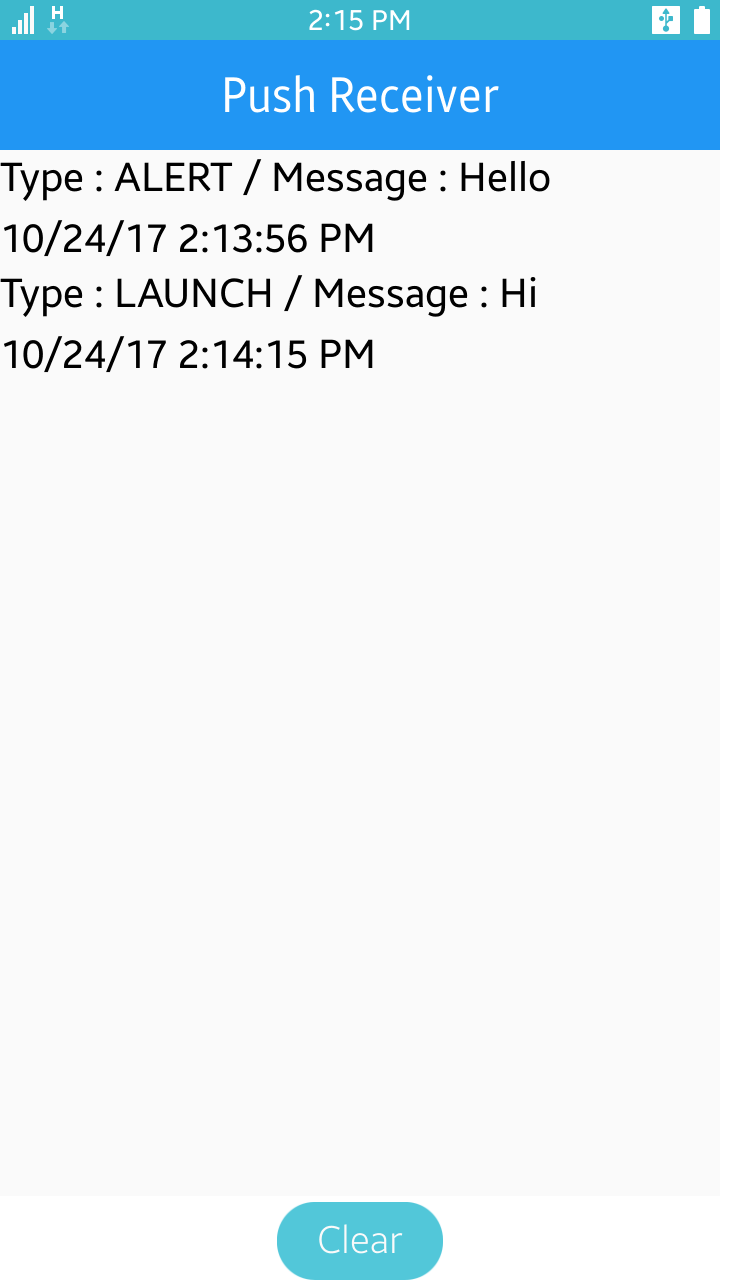
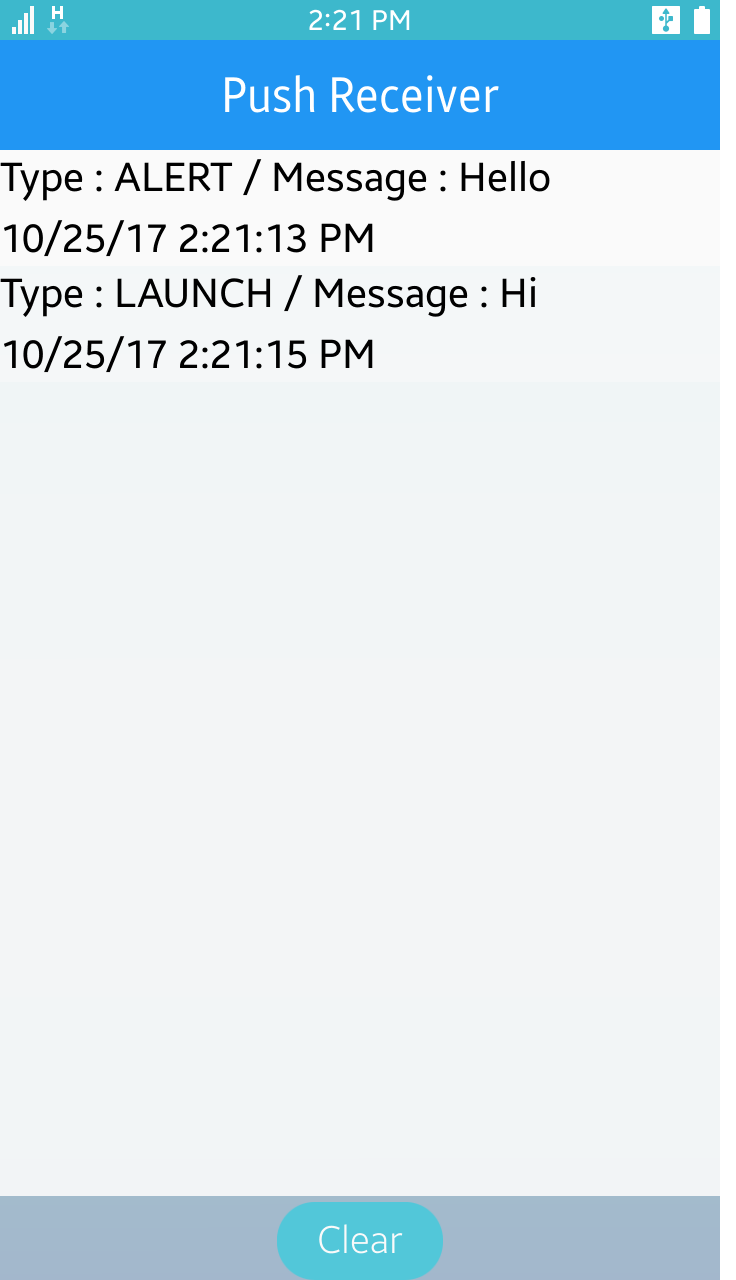
modified screen shot

diff --git a/Mobile/PushReceiver/PushReceiver/PushReceiver/Views/MainPage.xaml b/Mobile/PushReceiver/PushReceiver/PushReceiver/Views/MainPage.xaml
@@ -4,7 +4,7 @@
              x:Class="PushReceiver.Views.MainPage"
              Title="Push Receiver">
     <ContentPage.Content>
-        <StackLayout Orientation="Vertical" BackgroundColor="White">
+        <StackLayout Orientation="Vertical">
             <ListView x:Name="MyListView"
                     ItemsSource="{Binding}"
                     CachingStrategy="RecycleElement">
